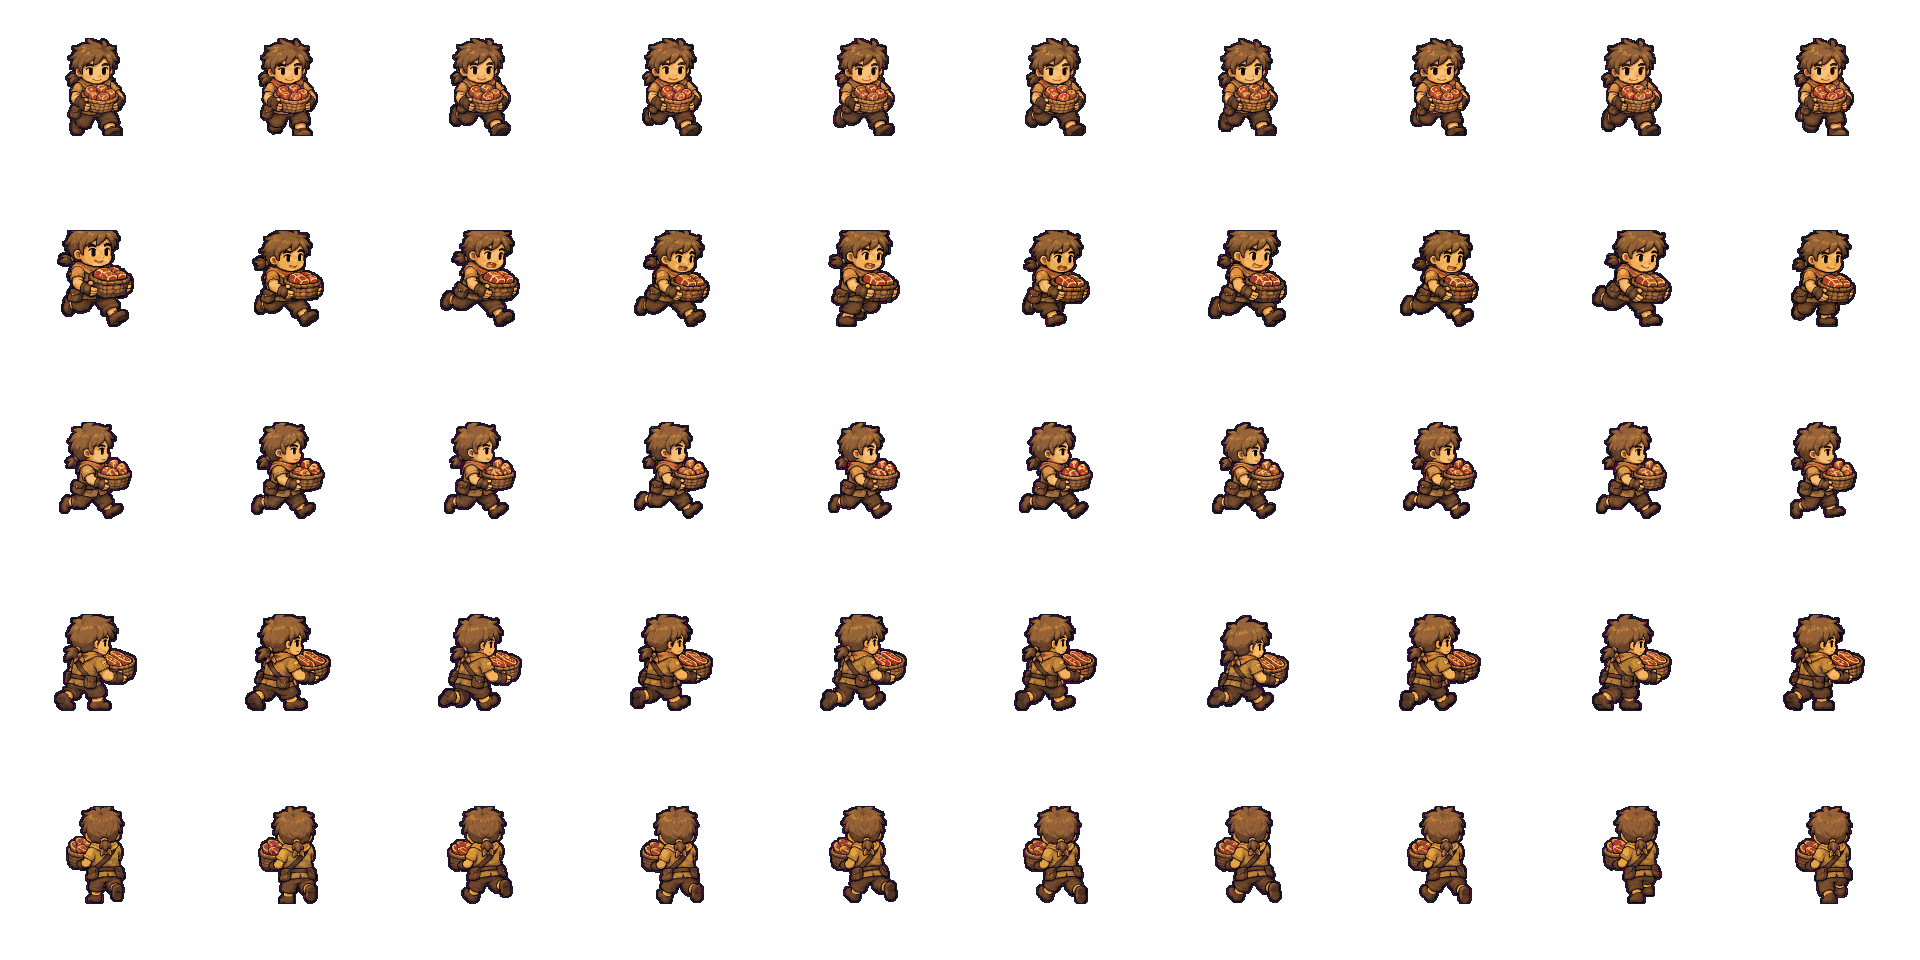
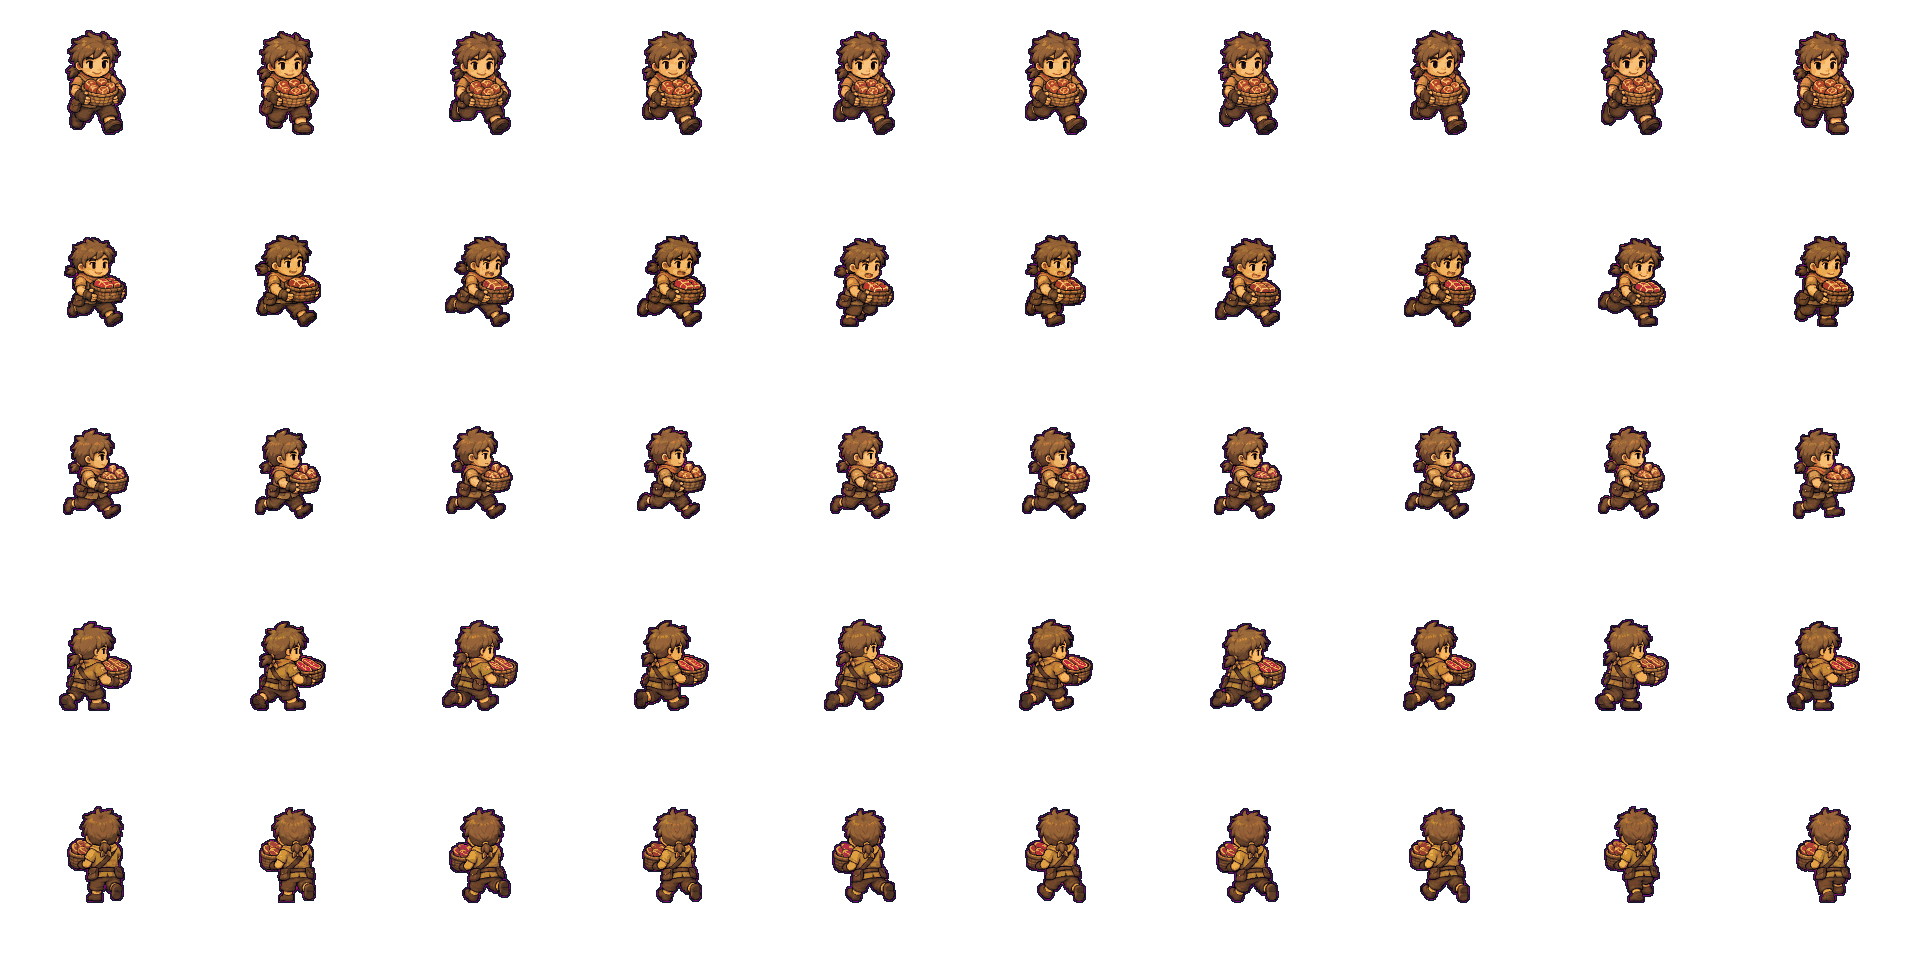
fix: stabilize peasant animation scale and timing

diff --git a/packages/renderer/src/hd2d/game-renderer.ts b/packages/renderer/src/hd2d/game-renderer.ts
@@ -184,6 +184,10 @@ const RUNIC_GUARDIAN_RENDER_SCALE = 0.92;
 const ASSASSIN_RENDER_SCALE = 0.9;
 /** The animated Peasant uses the same normalized 96 px body target as the Assassin. */
 const PEASANT_BONUS_RENDER_SCALE = 0.9;
+/** The 48 authored Peasant run phases describe one complete two-second stride sequence. Deriving
+ * each frame's duration from that cycle keeps a denser atlas from making the actor sprint through
+ * its poses faster than a shorter sheet. */
+const PEASANT_BONUS_RUN_CYCLE_DURATION_MS = 2_000;
 /** The hooded Ranger shares the compact player silhouette used by the Assassin and Peasant. */
 const RANGER_BONUS_RENDER_SCALE = 0.9;
 /** The elderly Priest shares the same normalized player height as the other generated bodies. */
@@ -606,7 +610,9 @@ export function playerActorView(
           : assassin && motion === "idle"
             ? 1_000 / 3
             : peasantBonus && motion === "run"
-              ? 1_000 / (player.peasantCarry ? 14 : 60)
+              ? player.peasantCarry
+                ? 1_000 / 14
+                : PEASANT_BONUS_RUN_CYCLE_DURATION_MS / sheet.frames
               : peasantBonus && motion === "idle"
                 ? 1_000 / 3
                 : rangerBonus && motion === "run"

diff --git a/packages/renderer/test/actor-motion.test.ts b/packages/renderer/test/actor-motion.test.ts
@@ -220,9 +220,11 @@ describe("actor animation art", () => {
     }
 
     const runView = playerActorView(bonus, 0, "run");
+    const runFrameDurationMs = runView.frameDurationMs ?? Number.NaN;
     expect(runView.directionalFacing).toEqual({ x: 1, z: 0 });
     expect(runView.renderHeight).toBeCloseTo(2.6 * 0.9);
-    expect(runView.frameDurationMs).toBeCloseTo(1_000 / 60);
+    expect(runFrameDurationMs).toBeCloseTo(2_000 / 48);
+    expect(runFrameDurationMs * 48).toBeCloseTo(2_000);
     expect(playerActorView(bonus, 0, "idle").frameDurationMs).toBeCloseTo(1_000 / 3);
 
     const carriedRunView = playerActorView(

diff --git a/apps/lab/scripts/animation-sheet.py b/apps/lab/scripts/animation-sheet.py
@@ -195,6 +195,77 @@ def primary_component_centres(
     )
 
 
+def isolated_component(image, component, margin=2):
+    """Return one connected silhouette without pixels owned by neighbouring poses."""
+    width, height = image.size
+    xs = [index % width for index in component]
+    ys = [index // width for index in component]
+    left = max(0, min(xs) - margin)
+    top = max(0, min(ys) - margin)
+    right = min(width, max(xs) + margin + 1)
+    bottom = min(height, max(ys) + margin + 1)
+    result = image.crop((left, top, right, bottom))
+    source_alpha = image.getchannel("A")
+    alpha = Image.new("L", result.size, 0)
+    alpha_pixels = alpha.load()
+    source_pixels = source_alpha.load()
+    for index in component:
+        x = index % width
+        y = index // width
+        alpha_pixels[x - left, y - top] = source_pixels[x, y]
+    result.putalpha(alpha)
+    return result
+
+
+def primary_component_grid(
+    image,
+    row_count,
+    column_count,
+    explicit_background,
+    background_tolerance,
+    pocket_tolerance,
+    precutout=False,
+):
+    """Recover complete actors even when a pose crosses an assumed source-cell boundary.
+
+    Generated action grids often place a raised tool in the nominal row above or a released
+    projectile in the next column. Cutting the sheet into rectangles first either amputates the
+    actor or assigns the projectile to its neighbour. The actor is consistently the dominant
+    connected silhouette in each authored slot, so isolate those silhouettes from the whole sheet
+    before grouping them by their measured centres.
+    """
+    if precutout:
+        cutout = image.convert("RGBA")
+    else:
+        background = (
+            couleur_de_fond(image)
+            if explicit_background is None
+            else explicit_background
+        )
+        cutout = detourer(
+            image,
+            tolerance=background_tolerance,
+            background=explicit_background,
+        )
+        cutout = vider_poches(cutout, background, tolerance=pocket_tolerance)
+    count = row_count * column_count
+    components = sorted(opaque_components(cutout), key=len, reverse=True)[:count]
+    if len(components) != count:
+        raise SystemExit(f"could not find {count} primary sprites for component-grid detection")
+    width = cutout.width
+    records = []
+    for component in components:
+        centre_x = sum(index % width for index in component) / len(component)
+        centre_y = sum(index // width for index in component) / len(component)
+        records.append((centre_x, centre_y, component))
+    records.sort(key=lambda record: record[1])
+    rows = []
+    for index in range(0, count, column_count):
+        row = sorted(records[index : index + column_count], key=lambda record: record[0])
+        rows.append([isolated_component(cutout, record[2]) for record in row])
+    return rows
+
+
 def automatic_cells(
     image,
     count,
@@ -395,6 +466,15 @@ def main():
             "rows in the generated sheet."
         ),
     )
+    parser.add_argument(
+        "--component-grid",
+        action="store_true",
+        help=(
+            "Isolate the dominant connected actor in every grid slot before selecting a row. "
+            "This preserves tools that cross nominal cell boundaries and drops detached "
+            "projectiles that the runtime renders separately."
+        ),
+    )
     parser.add_argument("--rotate", type=int, choices=(0, 180), default=0)
     parser.add_argument("--frame-size", type=int, default=256)
     parser.add_argument("--content-height", type=int, default=150)
@@ -405,6 +485,15 @@ def main():
             "Scale every key and in-between from their shared tallest source frame instead of "
             "making every pose the full content height. This preserves apparent body size when "
             "an animation crouches, falls or lies down."
+        ),
+    )
+    parser.add_argument(
+        "--reference-height",
+        type=int,
+        help=(
+            "Use one explicit prepared-source height as the scale reference. Unlike scaling each "
+            "cell to --content-height, this keeps the actor the same size when a pose raises a "
+            "tool, crouches or lies down."
         ),
     )
     parser.add_argument("--colors", type=int, default=24)
@@ -474,6 +563,22 @@ def main():
         raise SystemExit("--pocket-tolerance must be non-negative and below --background-tolerance")
     if not 0 <= args.minimum_component_area_ratio <= 1:
         raise SystemExit("--minimum-component-area-ratio must be between zero and one")
+    if args.reference_height is not None and args.reference_height <= 0:
+        raise SystemExit("--reference-height must be positive")
+    if args.reference_height is not None and args.shared_scale:
+        raise SystemExit("--reference-height and --shared-scale are mutually exclusive")
+    if args.component_grid and (
+        args.auto_cells
+        or args.auto_rows
+        or args.cutout_before_split
+        or args.row_gutter
+        or args.row_gutter_top is not None
+        or args.row_gutter_bottom is not None
+    ):
+        raise SystemExit(
+            "--component-grid owns cell and row extraction; do not combine it with automatic "
+            "splitting, pre-cutout splitting or row gutters"
+        )
     explicit_background = None
     if args.background_color is not None:
         value = args.background_color.removeprefix("#")
@@ -549,8 +654,6 @@ def main():
             )
         )
 
-    source = select_row(args.input)
-    inbetweens = select_row(args.inbetweens) if args.inbetweens else None
     if args.foot_offset is not None and not 0 <= args.foot_offset < args.frame_size:
         raise SystemExit("--foot-offset must fit inside --frame-size")
 
@@ -578,8 +681,28 @@ def main():
             for index in range(args.frames)
         ]
 
-    source_cells = split_cells(source, args.input)
-    inbetween_cells = split_cells(inbetweens, args.inbetweens) if inbetweens is not None else None
+    def component_row(path):
+        image = Image.open(path).convert("RGBA")
+        return primary_component_grid(
+            image,
+            args.rows,
+            args.frames,
+            explicit_background,
+            args.background_tolerance,
+            args.pocket_tolerance,
+            args.precutout,
+        )[args.row]
+
+    if args.component_grid:
+        source_cells = component_row(args.input)
+        inbetween_cells = component_row(args.inbetweens) if args.inbetweens else None
+    else:
+        source = select_row(args.input)
+        inbetweens = select_row(args.inbetweens) if args.inbetweens else None
+        source_cells = split_cells(source, args.input)
+        inbetween_cells = (
+            split_cells(inbetweens, args.inbetweens) if inbetweens is not None else None
+        )
     try:
         sequence = (
             list(range(args.frames))
@@ -590,7 +713,7 @@ def main():
         raise SystemExit("--sequence must contain comma-separated integers") from error
     if not sequence or any(index < 0 or index >= args.frames for index in sequence):
         raise SystemExit("--sequence contains a source-frame index outside --frames")
-    output_frames = len(sequence) * (2 if inbetweens is not None else 1)
+    output_frames = len(sequence) * (2 if inbetween_cells is not None else 1)
     output = Image.new(
         "RGBA",
         (args.frame_size * output_frames, args.frame_size),
@@ -599,7 +722,7 @@ def main():
     prepared = [
         prepare_frame(
             cell,
-            args.precutout or args.cutout_before_split,
+            args.precutout or args.cutout_before_split or args.component_grid,
             args.background_tolerance,
             args.pocket_tolerance,
             args.minimum_component_area_ratio,
@@ -611,7 +734,7 @@ def main():
         [
             prepare_frame(
                 cell,
-                args.precutout or args.cutout_before_split,
+                args.precutout or args.cutout_before_split or args.component_grid,
                 args.background_tolerance,
                 args.pocket_tolerance,
                 args.minimum_component_area_ratio,
@@ -622,17 +745,15 @@ def main():
         if inbetween_cells is not None
         else None
     )
-    reference_height = (
-        max(
+    reference_height = args.reference_height
+    if reference_height is None and args.shared_scale:
+        reference_height = max(
             frame.height
             for frame in [
                 *prepared,
                 *(prepared_inbetweens if prepared_inbetweens is not None else []),
             ]
         )
-        if args.shared_scale
-        else None
-    )
 
     def normalize_sheet(cells):
         normalized = []

diff --git a/studio/pixel-art/peasant.md b/studio/pixel-art/peasant.md
@@ -69,9 +69,12 @@ close the loop without a jump.
 
 `apps/lab/scripts/animation-sheet.py` removes the magenta background, applies hard alpha, a
 24-colour palette and the project outline, and anchors the feet 56 px above the bottom of a 192 px
-frame. Every internal non-run source-row edge discards 28 px to prevent neighbouring tools or
-effects from leaking into another animation. The rebuilt run uses shared 96 px scaling, automatic
-actor-centre detection, hard alpha and a common 32-colour final palette;
+frame. Non-run atlases are extracted by connected actor component across the complete source grid,
+before any row or column crop: this keeps a raised tool attached to its owner without importing a
+neighbouring pose or a detached projectile. Each angle takes its first idle pose as a fixed source
+height reference, so tools, crouches and falls change the silhouette without changing the actor's
+anatomical scale. The rebuilt run uses shared 96 px scaling, automatic actor-centre detection, hard
+alpha and a common 32-colour final palette;
 `stack-animation-strips.py` stacks its five camera rows into one 9216x960 atlas.
 
 Fifteen 1920x960 atlases contain ten phases by five authored angles. The 9216x960 run atlas contains
@@ -82,7 +85,8 @@ Fifteen 1920x960 atlases contain ten phases by five authored angles. The 9216x96
 - `packages/renderer/src/assets/bonus/peasant/{rally,ration-throw,camp-build,bomb-throw}.png`;
 - `packages/renderer/src/assets/bonus/peasant/carry-{wood,meat,gold}-{idle,run}.png`.
 
-Idle runs at 3 fps and the 48-phase main locomotion at 60 fps, producing one 0.8-second loop. The
-existing ten-phase cargo runs remain at 14 fps. Each skill maps authoritative contact to its own
-semantic impact frame; the server still decides harvesting, buffs, healing, construction, bomb
-collision, damage and inventory changes.
+Idle runs at 3 fps. The 48-phase main locomotion is defined as one two-second sequence, so the
+renderer derives a 24 fps cadence from the atlas length instead of treating every additional image
+as permission to accelerate the animation. The existing ten-phase cargo runs remain at 14 fps.
+Each skill maps authoritative contact to its own semantic impact frame; the server still decides
+harvesting, buffs, healing, construction, bomb collision, damage and inventory changes.
